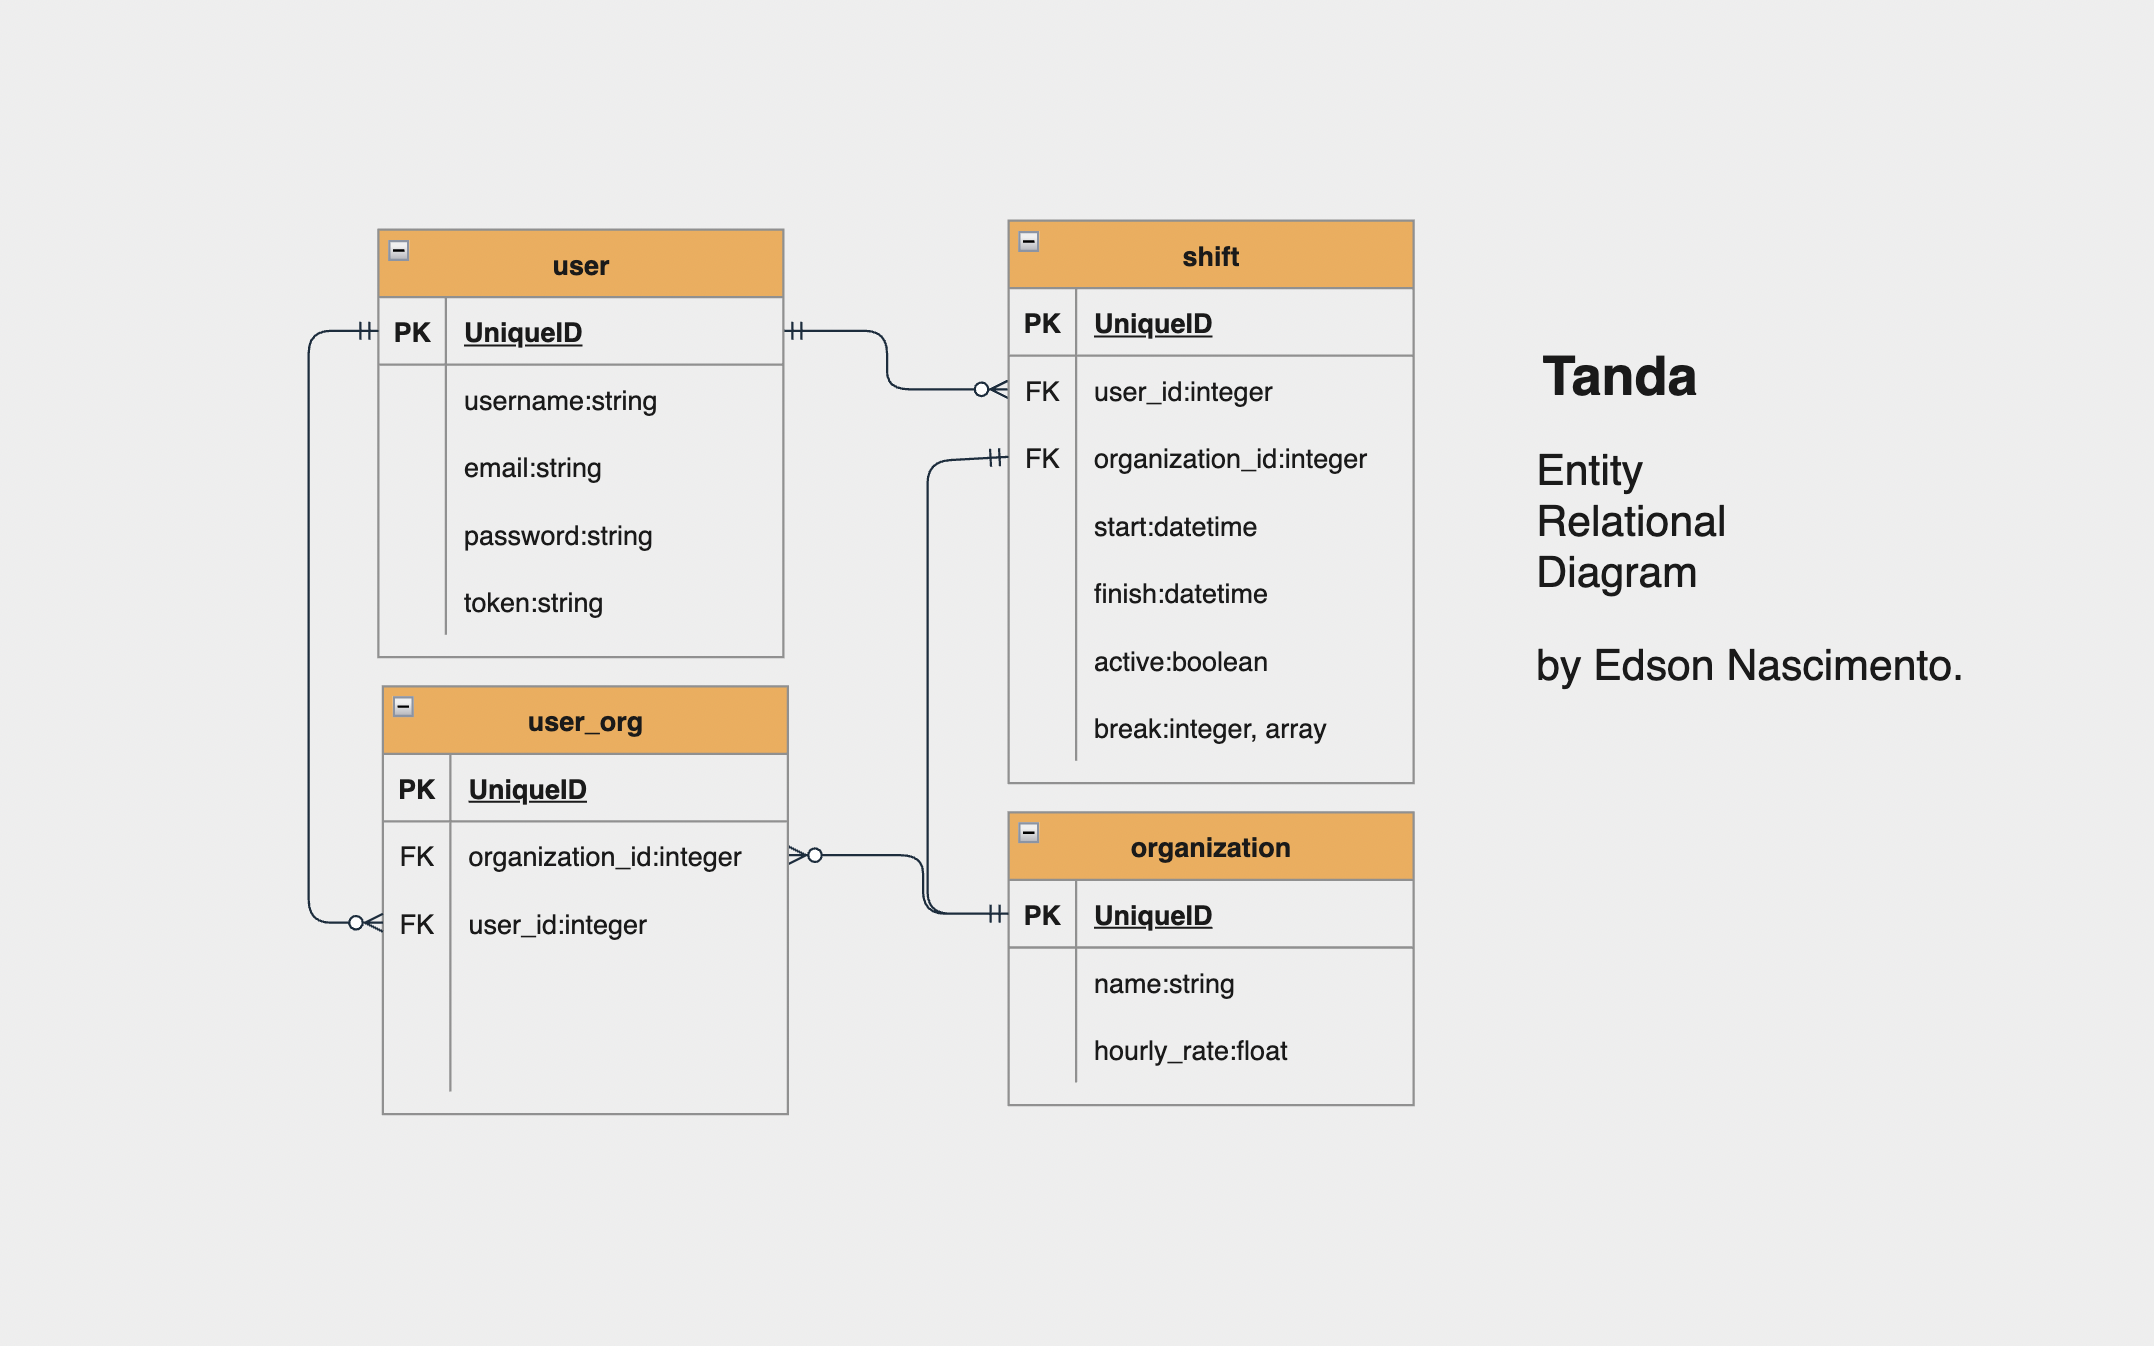
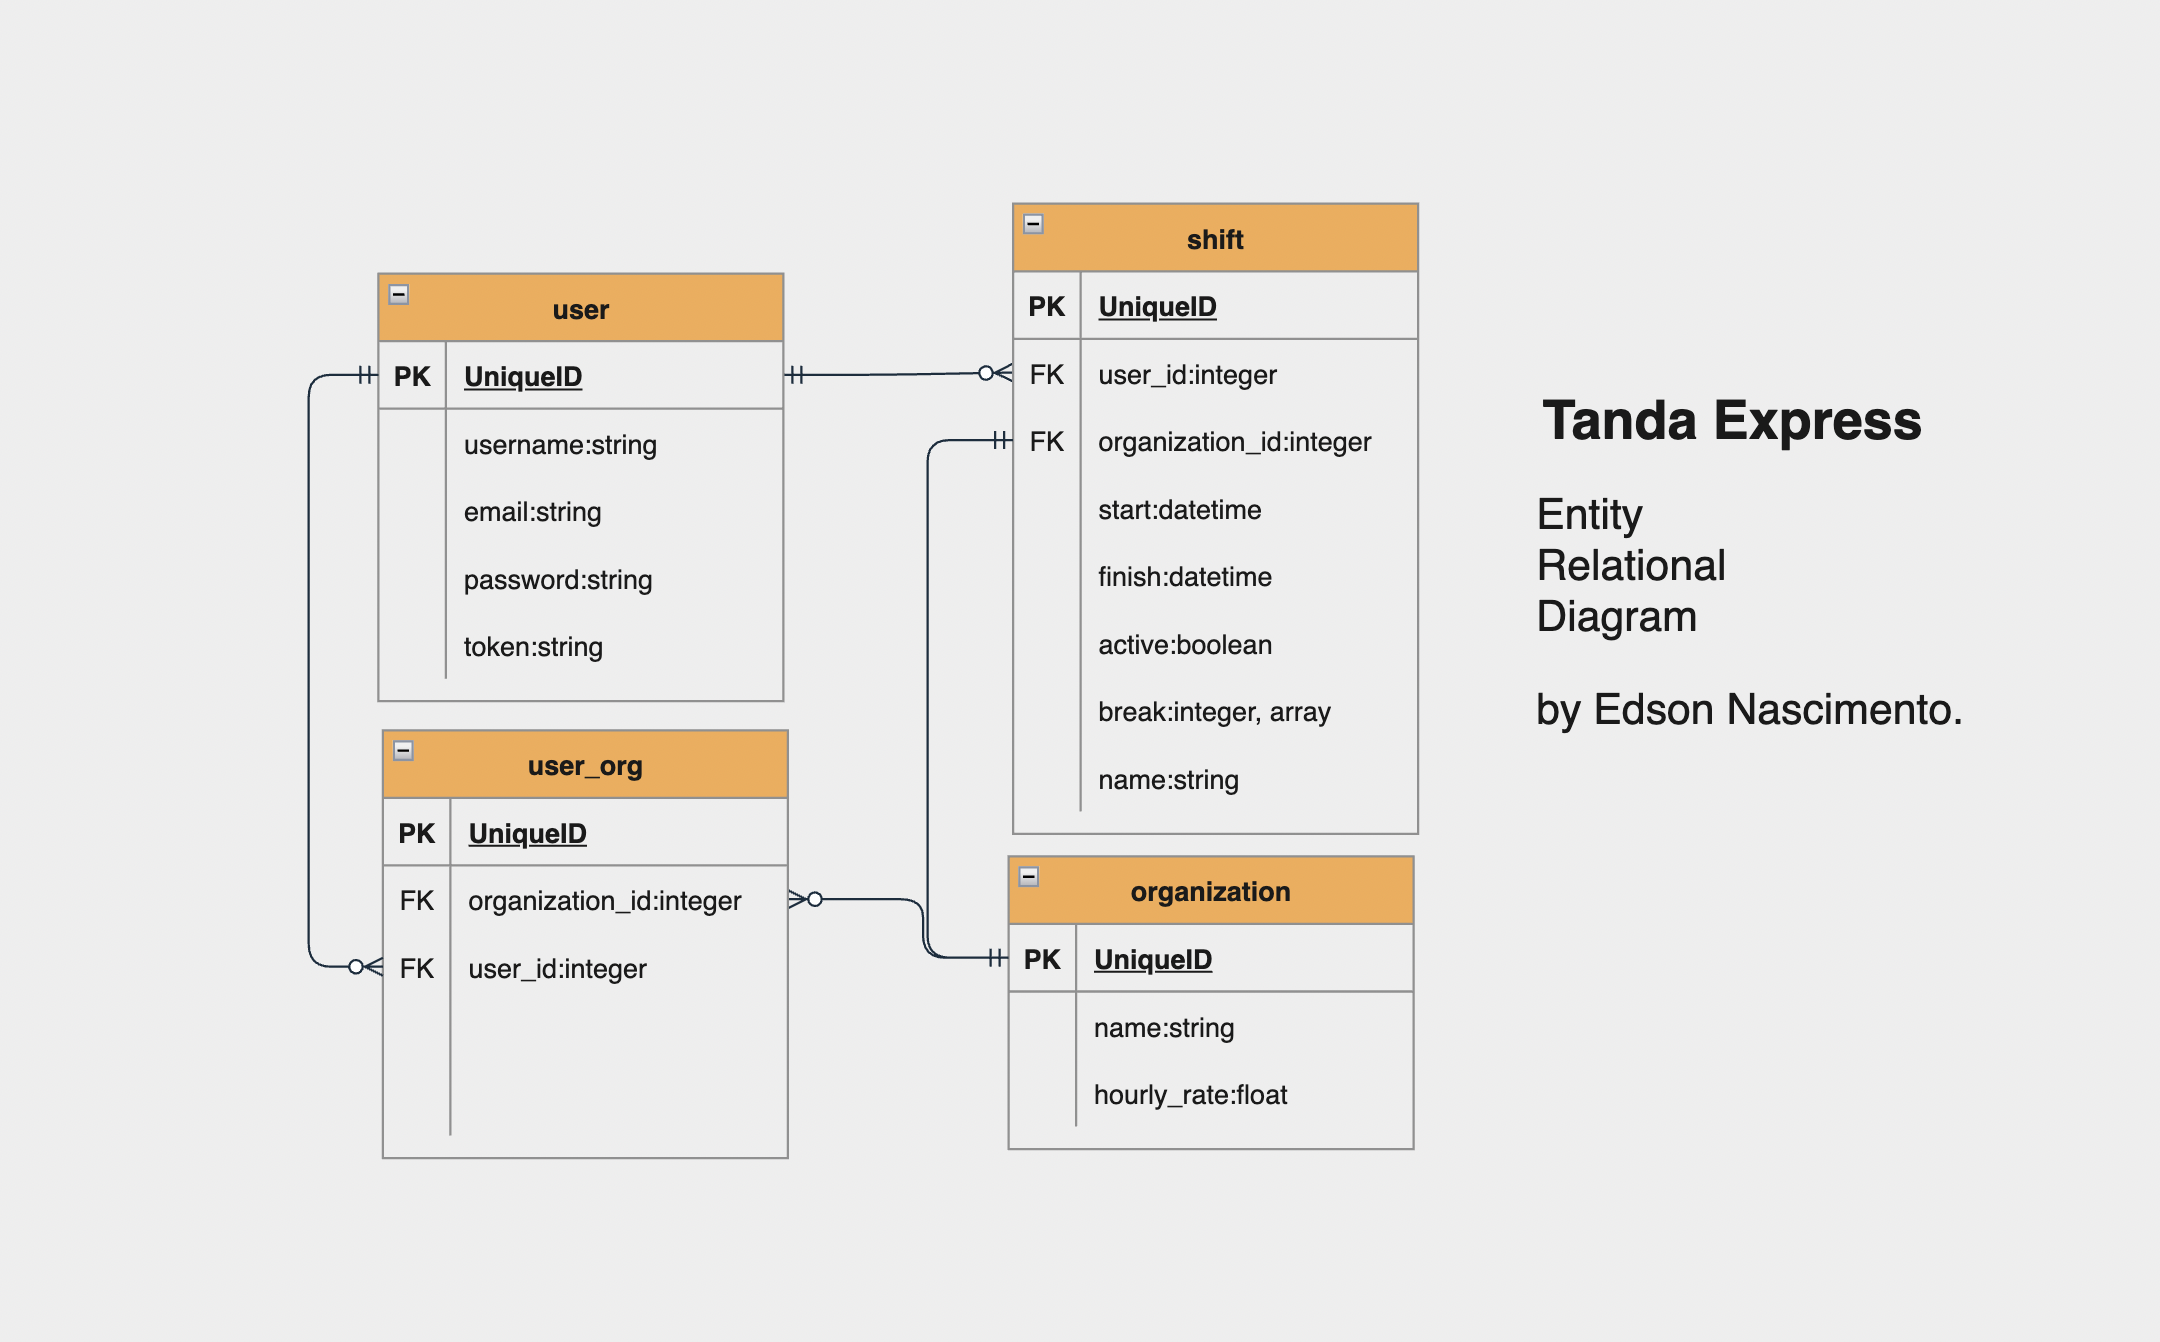
added filter by date and name

Changed region(s): [[0.1555, 0.1528, 0.6843, 0.8249], [0.7154, 0.2444, 0.902, 0.5499], [0.3422, 0.7943, 0.3733, 0.8249]]

diff --git a/app/controllers/shifts_controller.rb b/app/controllers/shifts_controller.rb
@@ -2,17 +2,12 @@ class ShiftsController < ApplicationController
   before_action :get_current_user
   before_action :set_shift, only: [:update, :destroy, :show, :break_update]
 
-  def index
-    @shifts = Shift.where(organization_id:params[:org_id],active:true).order(date: :desc)
-    if @shifts
-      render json: @shifts, status: 201
-    else  
-      render json: {error: "Shifts not found"}, status: 404
+  def shifts
+    if (params[:date])
+      @shifts = Shift.where(organization_id:params[:org_id],active:params[:active]).where("date::date = ?", params[:date].to_date).order(date: :desc)
+    else
+      @shifts = Shift.where(organization_id:params[:org_id],active:params[:active]).order(date: :desc)
     end  
-  end
-
-  def inactive
-    @shifts = Shift.where(organization_id:params[:org_id], active:false).order(date: :desc)
     if @shifts
       render json: @shifts, status: 201
     else  
@@ -84,6 +79,6 @@ class ShiftsController < ApplicationController
   end
 
   def shift_params
-    params.permit(:date,:start_time, :finish_time, :break, :user_email, :org_id, :shift_id)
+    params.permit(:date,:start_time, :finish_time, :break, :user_email, :org_id, :shift_id, :active)
   end
 end

diff --git a/config/routes.rb b/config/routes.rb
@@ -16,8 +16,7 @@ Rails.application.routes.draw do
       post "/new", to: "shifts#create"
       put "/update", to: "shifts#update"
       put "/break/update", to: "shifts#break_update"
-      get "/active/:org_id", to: "shifts#index"
-      get "/inactive/:org_id", to: "shifts#inactive"
+      post "/shifts", to: "shifts#shifts"
       get "/show/:shift_id", to: "shifts#show"
       delete "/:shift_id", to: "shifts#destroy"
     end
